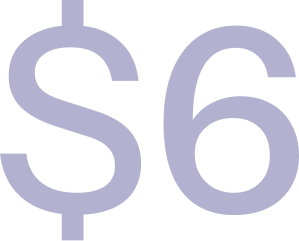
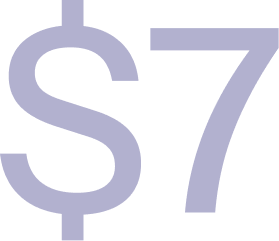
changed price to

diff --git a/swipeshare_app/lib/pages/home_page.dart b/swipeshare_app/lib/pages/home_page.dart
@@ -1,7 +1,5 @@
 import 'dart:async';
 import 'dart:math';
-import 'dart:ui';
-
 import 'package:cloud_firestore/cloud_firestore.dart';
 import 'package:firebase_auth/firebase_auth.dart';
 import 'package:flutter/material.dart';
@@ -10,7 +8,6 @@ import 'package:haptic_feedback/haptic_feedback.dart';
 import 'package:provider/provider.dart';
 import 'package:pull_to_refresh_flutter3/pull_to_refresh_flutter3.dart';
 import 'package:swipeshare_app/components/buy_and_sell_screens/payment_options_picker.dart';
-import 'package:swipeshare_app/components/time_formatter.dart';
 import 'package:swipeshare_app/components/home_screen/active_listing_card.dart';
 import 'package:swipeshare_app/components/home_screen/active_order_card.dart';
 import 'package:swipeshare_app/components/home_screen/hyperlinks.dart';
@@ -24,11 +21,6 @@ import 'package:swipeshare_app/pages/buy_swipes.dart';
 import 'package:swipeshare_app/pages/onboarding/onboarding_pages.dart/tutorial_carousel.dart';
 import 'package:swipeshare_app/pages/sell_post.dart';
 import 'package:swipeshare_app/services/auth/auth_services.dart';
-import 'package:firebase_auth/firebase_auth.dart';
-import 'package:flutter/material.dart';
-import 'package:flutter_svg/svg.dart';
-import 'package:google_fonts/google_fonts.dart';
-import 'package:provider/provider.dart';
 import 'package:swipeshare_app/services/listing_service.dart';
 import 'package:swipeshare_app/services/order_service.dart';
 import 'package:swipeshare_app/services/user_service.dart';

diff --git a/swipeshare_app/lib/components/buy_and_sell_screens/time_picker_validation.dart b/swipeshare_app/lib/components/buy_and_sell_screens/time_picker_validation.dart
@@ -1,5 +1,4 @@
 import 'package:flutter/material.dart';
-import 'package:swipeshare_app/components/colors.dart';
 import 'package:swipeshare_app/components/text_styles.dart';
 import 'package:swipeshare_app/components/buy_and_sell_screens/shared_constants.dart';
 
@@ -20,15 +19,15 @@ class TimePickerValidationComponent extends StatelessWidget {
     if (selectedLocations.isEmpty) {
       return _buildMessage('Please select a location first');
     }
-    
+
     if (startTime == null || endTime == null) {
       return _buildMessage('No time selected, pick a start and end time');
     }
-    
+
     if (_isEndTimeBeforeStartTime()) {
       return _buildMessage('End time cannot be before start time');
     }
-    
+
     return Padding(
       padding: const EdgeInsets.only(top: BuySwipesConstants.smallSpacing),
       child: Center(
@@ -62,10 +61,10 @@ class TimePickerValidationComponent extends StatelessWidget {
   /// Validates if end time is before start time
   bool _isEndTimeBeforeStartTime() {
     if (startTime == null || endTime == null) return false;
-    
+
     final startMinutes = startTime!.hour * 60 + startTime!.minute;
     final endMinutes = endTime!.hour * 60 + endTime!.minute;
-    
+
     return endMinutes <= startMinutes;
   }
 }

diff --git a/swipeshare_app/lib/pages/listing_selection_page.dart b/swipeshare_app/lib/pages/listing_selection_page.dart
@@ -1,3 +1,4 @@
+import 'dart:math';
 import 'package:flutter/cupertino.dart';
 import 'package:haptic_feedback/haptic_feedback.dart';
 import 'package:swipeshare_app/components/text_styles.dart';
@@ -88,7 +89,9 @@ class _ListingSelectionPageState extends State<ListingSelectionPage> {
   // Pull to refresh handler
   void _onRefresh() async {
     // Add a small delay for better UX
-    await Future.delayed(const Duration(milliseconds: 300));
+    var random = Random();
+    int sheaintevenknowit = 100 + random.nextInt(1200);
+    await Future.delayed(Duration(milliseconds: sheaintevenknowit));
 
     // Reload listings
     await _loadListings();
@@ -114,6 +117,13 @@ class _ListingSelectionPageState extends State<ListingSelectionPage> {
         forceMaterialTransparency: true,
         surfaceTintColor: Colors.transparent,
         scrolledUnderElevation: 0.0,
+        bottom: PreferredSize(
+          preferredSize: Size.fromHeight(1.0),
+          child: Container(
+            color: Colors.grey.withOpacity(0.3), // Customize color as needed
+            height: 1.0,
+          ),
+        ),
       ),
 
       body: _buildBody(),

diff --git a/swipeshare_app/lib/services/order_service.dart b/swipeshare_app/lib/services/order_service.dart
@@ -52,7 +52,7 @@ class OrderService extends ChangeNotifier {
 
       //send message from system
       final String message =
-          "Welcome to the chat room!\n\nFeel free to discuss things like the time you'd want to meet up, identifiers like shirt color, or maybe the movie that came out last week :) \n\n Remember swipes are \$6 and should be paid before the seller swipes you in. \n\n Happy Swiping!";
+          "Welcome to the chat room!\n\nFeel free to discuss things like the time you'd want to meet up, identifiers like shirt color, or maybe the movie that came out last week :) \n\n Remember swipes are \$7 and should be paid before the seller swipes you in. \n\n Happy Swiping!";
       _chatService.systemMessage(message, customDocId);
     } catch (e, s) {
       // Handle the error and stack trace

diff --git a/swipeshare_app/lib/services/chat/chat_service.dart b/swipeshare_app/lib/services/chat/chat_service.dart
@@ -1,15 +1,10 @@
-import 'package:haptic_feedback/haptic_feedback.dart';
-import 'package:swipeshare_app/components/time_formatter.dart';
 import 'package:swipeshare_app/models/meal_order.dart';
 import 'package:swipeshare_app/models/message.dart';
 import 'package:cloud_firestore/cloud_firestore.dart';
 import 'package:firebase_auth/firebase_auth.dart';
 import 'package:flutter/material.dart';
-import 'package:swipeshare_app/models/meal_order.dart';
-import 'package:swipeshare_app/models/message.dart';
 import 'package:swipeshare_app/services/order_service.dart';
 import 'package:swipeshare_app/services/user_service.dart';
-import 'package:swipeshare_app/utils/profanity_utils.dart';
 
 class ChatService extends ChangeNotifier {
   //get instance of auth and firestore

diff --git a/swipeshare_app/lib/pages/onboarding/onboarding_carousel.dart b/swipeshare_app/lib/pages/onboarding/onboarding_carousel.dart
@@ -1,5 +1,4 @@
 import 'dart:async';
-
 import 'package:flutter/material.dart';
 import 'package:provider/provider.dart';
 import 'package:smooth_page_indicator/smooth_page_indicator.dart';
@@ -10,7 +9,6 @@ import 'package:swipeshare_app/pages/onboarding/onboarding_pages.dart/page_3.dar
 import 'package:swipeshare_app/pages/onboarding/onboarding_pages.dart/page_4.dart';
 import 'package:swipeshare_app/pages/onboarding/onboarding_pages.dart/page_5.dart';
 import 'package:swipeshare_app/pages/onboarding/onboarding_pages.dart/page_6.dart';
-import 'package:swipeshare_app/pages/onboarding/signup_page.dart';
 import 'package:swipeshare_app/services/auth/auth_services.dart';
 import 'package:swipeshare_app/services/email_verification_service.dart';
 

diff --git a/swipeshare_app/lib/pages/buy_swipes.dart b/swipeshare_app/lib/pages/buy_swipes.dart
@@ -9,7 +9,6 @@ import 'package:swipeshare_app/components/buy_and_sell_screens/time_picker_valid
 import 'package:swipeshare_app/components/colors.dart';
 import 'package:swipeshare_app/components/text_styles.dart';
 import 'package:swipeshare_app/pages/listing_selection_page.dart';
-import 'package:swipeshare_app/services/user_service.dart';
 
 class BuySwipeScreen extends StatefulWidget {
   List<String> paymentOptions;
@@ -151,7 +150,6 @@ class _BuySwipeScreenState extends State<BuySwipeScreen> {
   bool _canProceedToNextScreen() {
     return startTime != null &&
         endTime != null &&
-        widget.paymentOptions != null &&
         selectedLocations.isNotEmpty &&
         !_isEndTimeBeforeStartTime();
   }

diff --git a/swipeshare_app/lib/pages/chat_page.dart b/swipeshare_app/lib/pages/chat_page.dart
@@ -6,7 +6,6 @@ import 'package:swipeshare_app/components/chat_screen/chat_bubble.dart';
 import 'package:swipeshare_app/components/chat_screen/chat_settings.dart';
 import 'package:swipeshare_app/components/time_formatter.dart';
 import 'package:swipeshare_app/components/my_text_field.dart';
-import 'package:swipeshare_app/components/my_text_field.dart';
 import 'package:swipeshare_app/components/star_container.dart';
 import 'package:swipeshare_app/models/meal_order.dart';
 import 'package:swipeshare_app/models/message.dart';

diff --git a/swipeshare_app/lib/pages/onboarding/onboarding_pages.dart/page_5.dart b/swipeshare_app/lib/pages/onboarding/onboarding_pages.dart/page_5.dart
@@ -29,7 +29,7 @@ class Page5 extends StatelessWidget {
                 Text("Cost", style: AppTextStyles.subHeaderStyle),
                 SizedBox(height: vh * 0.02),
                 Text(
-                  "All swipes cost \$6, buyers will pay before sellers swipe them in.",
+                  "All swipes cost \$7, buyers will pay before sellers swipe them in.",
                   style: AppTextStyles.bodyText,
                   textAlign: TextAlign.center,
                 ),

diff --git a/swipeshare_app/lib/components/buy_and_sell_screens/swipe_count_picker.dart b/swipeshare_app/lib/components/buy_and_sell_screens/swipe_count_picker.dart
@@ -36,7 +36,8 @@ class SwipeCountComponent extends StatelessWidget {
               crossAxisAlignment: CrossAxisAlignment.start,
               children: [
                 Text(
-                  'Number of Swipes',
+                  // 'Number of Swipes',
+                  'Swipe Price',
                   style: AppTextStyles.bodyText.copyWith(
                     fontWeight: FontWeight.w600,
                   ),

diff --git a/swipeshare_app/lib/pages/onboarding/signup_page.dart b/swipeshare_app/lib/pages/onboarding/signup_page.dart
@@ -1,9 +1,7 @@
 import 'dart:ui';
-
 import 'package:flutter/material.dart';
 import 'package:haptic_feedback/haptic_feedback.dart';
 import 'package:provider/provider.dart';
-import 'package:swipeshare_app/pages/onboarding/onboarding_carousel.dart';
 import 'package:swipeshare_app/services/auth/auth_services.dart';
 import 'package:swipeshare_app/utils/profanity_utils.dart';
 

diff --git a/swipeshare_app/lib/pages/sell_post.dart b/swipeshare_app/lib/pages/sell_post.dart
@@ -26,7 +26,7 @@ class _SellPostScreenState extends State<SellPostScreen> {
   DateTime selectedDate = DateTime.now();
   TimeOfDay? startTime;
   TimeOfDay? endTime;
-  int swipeCount = 1;
+  int swipeCount = 7;
 
   @override
   Widget build(BuildContext context) {
